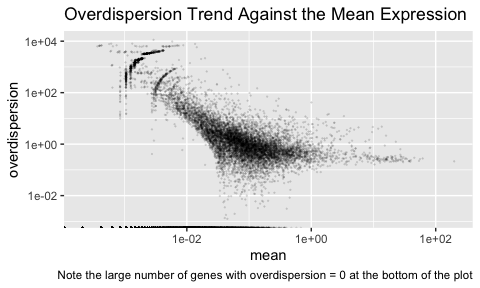
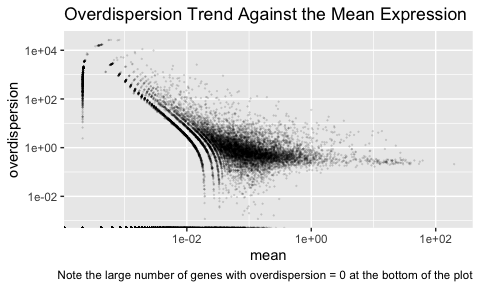
Update README.md

diff --git a/README.md b/README.md
@@ -141,7 +141,7 @@ summary(fit)
 #> 
 #> overdispersion:
 #>  Min 1st Qu. Median 3rd Qu.   Max
-#>    0       0      0   0.239 11253
+#>    0       0      0   0.518 26741
 #> 
 #> size_factors:
 #>    Min 1st Qu. Median 3rd Qu.  Max
@@ -208,10 +208,10 @@ bench::mark(
 #> # A tibble: 4 x 6
 #>   expression               min   median `itr/sec` mem_alloc `gc/sec`
 #>   <bch:expr>          <bch:tm> <bch:tm>     <dbl> <bch:byt>    <dbl>
-#> 1 glmGamPoi_in_memory 425.36ms 428.76ms    2.33     259.6MB    0    
-#> 2 glmGamPoi_on_disk      3.37s    3.37s    0.297   612.79MB    0.297
-#> 3 DESeq2                16.75s   16.75s    0.0597    1.14GB    0.119
-#> 4 edgeR                  5.32s    5.32s    0.188    982.9MB    0.188
+#> 1 glmGamPoi_in_memory 741.95ms 741.95ms    1.35    328.44MB   0     
+#> 2 glmGamPoi_on_disk      3.75s    3.75s    0.267   681.08MB   0.267 
+#> 3 DESeq2                25.55s   25.55s    0.0391    1.15GB   0.0391
+#> 4 edgeR                  5.35s    5.35s    0.187    977.7MB   0.374
 ```
 
 Fitting the full `pbmc4k` dataset on a modern MacBook Pro in-memory
